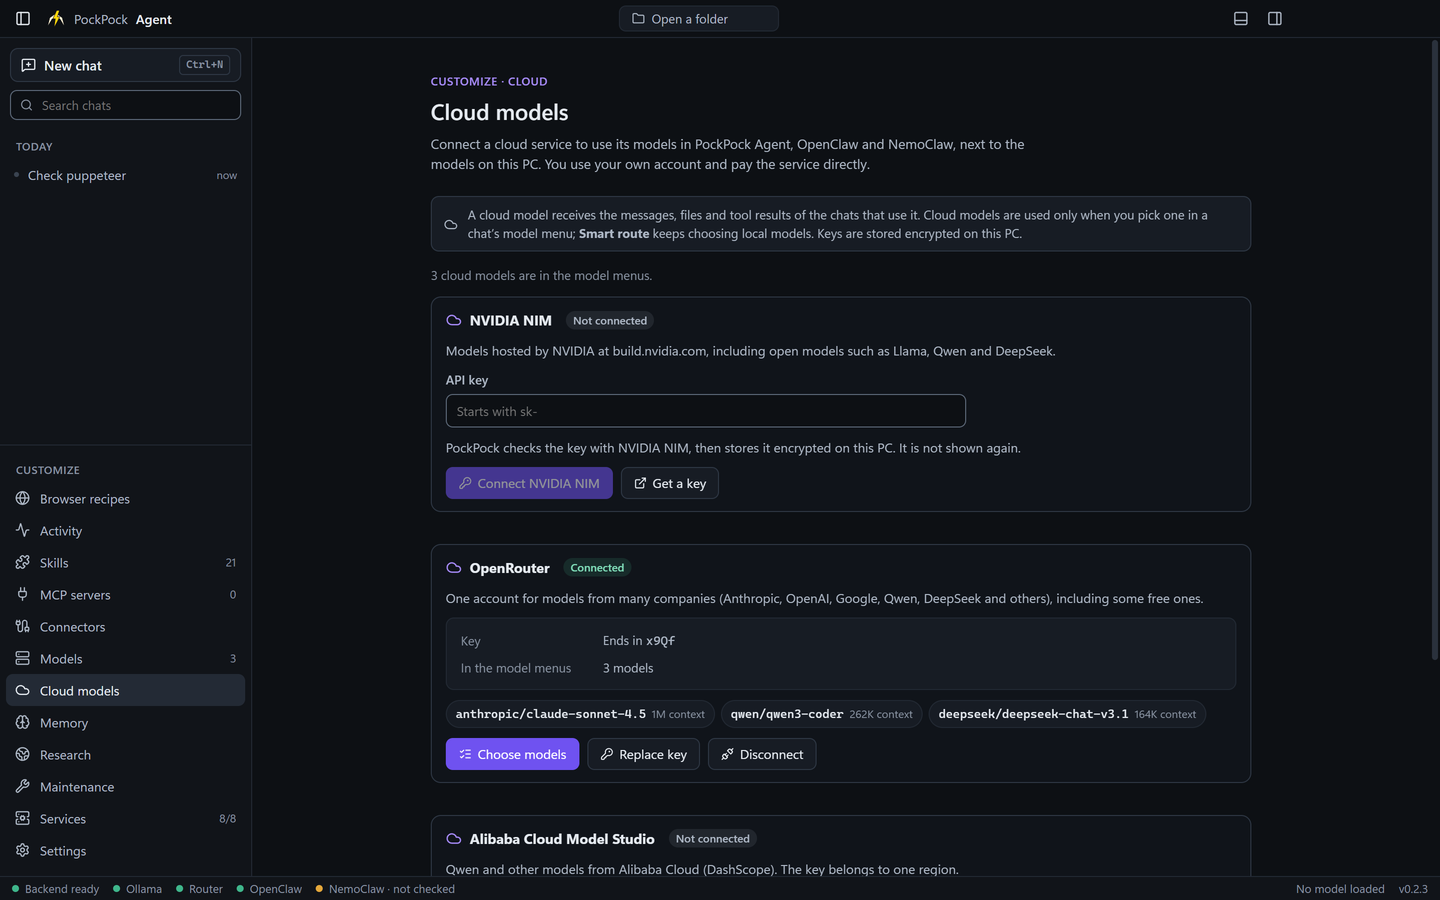
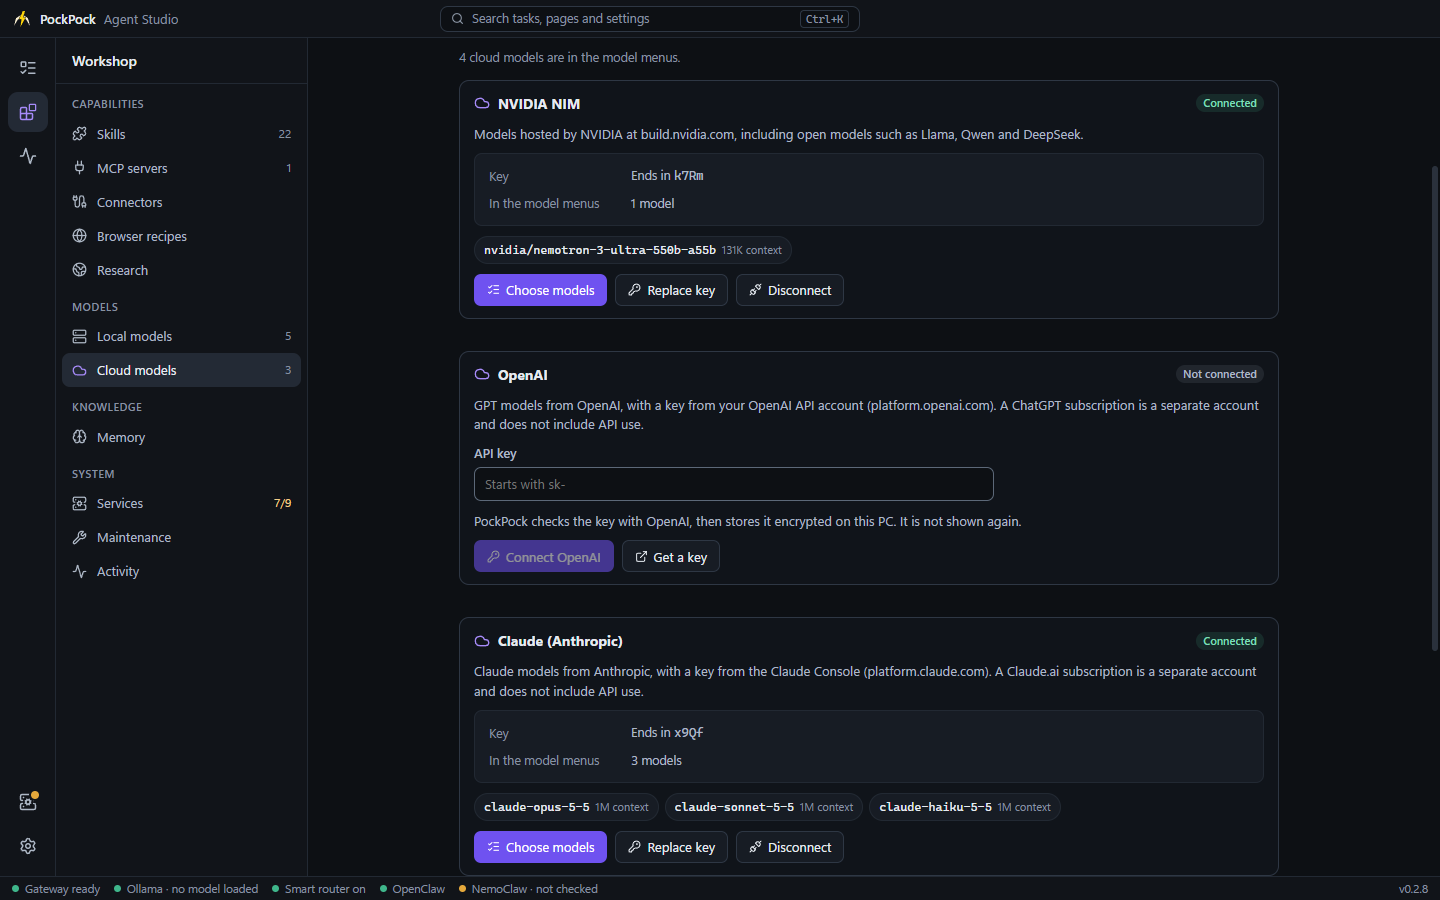
chore(release): 0.2.9 (#133)
Version bump 0.2.8 → 0.2.9 with release notes
(`.github/release-notes/v0.2.9.md`) for everything merged since v0.2.8:

- #130 fix(cloud): NVIDIA key check no longer fails on a model that
never answers.
- #131 feat(cloud): OpenAI and Claude replace OpenRouter; disconnect
cleans up.
- #132 feat(mcp): Local MCP runs MCP servers once for every agent (step
1).

Also new screenshots in `docs/images`:
- `cloud-models.png` and `model-menu-cloud.png`, retaken in the current
UI with sample data (NVIDIA NIM and Claude connected). They replace the
0.2.3-era images that showed OpenRouter.
- `mcp-servers.png`, a new image of the MCP servers page with two real
servers running in Local MCP.

The captions that said the images dated from 0.2.8 are updated.

🤖 Generated with [Claude Code](https://claude.com/claude-code)

diff --git a/.github/release-notes/v0.2.9.md b/.github/release-notes/v0.2.9.md
@@ -1,0 +1,52 @@
+PockPock Agent 0.2.9 adds OpenAI and Claude as cloud model services (replacing OpenRouter), cleans up everything that used a cloud service when you disconnect it, fixes connecting NVIDIA NIM with a valid key, and adds **Local MCP**: PockPock now runs the MCP servers you add, once, for the agents, and keeps their keys.
+
+## Download
+
+| Your computer | Download |
+|---|---|
+| Windows 10 or 11 (64-bit) | [PockPock-Agent-Setup.exe](https://github.com/PockPock9/PockPockAgent/releases/latest/download/PockPock-Agent-Setup.exe) |
+| Mac with Apple silicon (M1 or newer) | [PockPock-Agent-mac-arm64.dmg](https://github.com/PockPock9/PockPockAgent/releases/latest/download/PockPock-Agent-mac-arm64.dmg) |
+| Mac with an Intel processor | [PockPock-Agent-mac-x64.dmg](https://github.com/PockPock9/PockPockAgent/releases/latest/download/PockPock-Agent-mac-x64.dmg) |
+
+**Already using 0.2.8 on Windows?** PockPock updates itself: press **Restart to update** when it appears, or check in **Settings → Updates**. On a Mac, download and install it once, the same way as the first time. Your chats, settings and models are kept.
+
+**New to PockPock?** Open the downloaded file, then press **Set up PockPock**; setup installs everything else. Windows may show **"Windows protected your PC"** because PockPock is not code-signed yet: press **More info**, then **Run anyway**. On a Mac, see the [installation guide](https://github.com/PockPock9/PockPockAgent/wiki/Installation).
+
+## What's new since 0.2.8
+
+### OpenAI and Claude cloud models (OpenRouter removed)
+
+- **Workshop → Cloud models** now offers **NVIDIA NIM**, **OpenAI**, **Claude (Anthropic)** and **Alibaba Cloud Model Studio**. OpenRouter is no longer offered.
+- **OpenAI** and **Claude** need an API key from their developer platforms (platform.openai.com, platform.claude.com), billed per use. A ChatGPT or Claude.ai subscription is a separate account and does not include API use; the page says so.
+- On first connect, current models are switched on: Claude Opus 5.5, Sonnet 5.5 and Haiku 5.5; GPT-5.1, GPT-5 and GPT-5 mini (or the newest GPT models your account offers). Only chat models are listed.
+- PockPock adjusts each request to what the service accepts (for example, current Claude models refuse a custom temperature), for Chat, PockPock Agent, OpenClaw and NemoClaw alike.
+- A saved OpenRouter key is deleted from your PC when 0.2.9 starts, and model choices that pointed at an OpenRouter model go back to their defaults.
+
+### Disconnecting a cloud service cleans up
+
+When you disconnect a service, or untick one of its models, nothing is left pointing at a model that is gone:
+
+- the chat model, OpenClaw's model and the **Plan in steps** planner go back to their defaults;
+- OpenClaw's list of cloud models is rewritten;
+- NemoClaw's sandbox goes back to its local model if it was using one of them.
+
+### NVIDIA NIM connects with a valid key
+
+- A valid NVIDIA key could fail with "NVIDIA NIM could not be reached (it did not answer in time)", because the key check waited on a listed model that never answers. The key is now checked against several models at once, and the first clear answer decides: a real key connected in under a second.
+- The models switched on when you connect are ones that answered in tests.
+
+### Local MCP
+
+![The MCP servers page with two servers running in Local MCP](https://raw.githubusercontent.com/PockPock9/PockPockAgent/main/docs/images/mcp-servers.png)
+
+- MCP servers you add now run in **Local MCP**, a new service on the **Services** page. Each server starts the first time an agent uses it and is shared by the agents; one that crashes is started again. OpenClaw uses them today; PockPock Agent and NemoClaw are next.
+- Their keys are kept by PockPock (encrypted on Windows) instead of in OpenClaw's configuration.
+- **Workshop → MCP servers** shows each server's state (**Running · 25 tools**, **Starts when used**, **Error** with the reason), with **Log** and **Restart** buttons.
+- MCP servers you added in earlier versions move into Local MCP automatically when PockPock starts, with their keys and on/off switch. Servers added outside PockPock, and servers using the older SSE transport, stay with OpenClaw.
+
+## Good to know
+
+- Every pull request in this release passed the full check suite (backend tests and desktop typecheck and build on Ubuntu, Windows and macOS).
+- Not tested yet with real keys: connecting and chatting with OpenAI or Claude (made-up keys were refused by both real services, and requests were tested against stand-ins built from their documentation). Not tested yet: a full OpenClaw chat that calls a tool through Local MCP (OpenClaw's own MCP client was tested against it).
+- Help, screenshots and example prompts are in the [wiki](https://github.com/PockPock9/PockPockAgent/wiki).
+- Please [report problems](https://github.com/PockPock9/PockPockAgent/issues/new/choose).

diff --git a/docs/features/cloud-models.md b/docs/features/cloud-models.md
@@ -21,7 +21,7 @@ OpenAI and Claude need an **API** key from the developer platform, billed per us
 |---|---|
 | ![The Cloud models page with a provider connected](../images/cloud-models.png) | ![The model menu with local and cloud models](../images/model-menu-cloud.png) |
 
-*The screenshots show sample models and a sample key ending, not a real account. They were taken in 0.2.8, when OpenRouter was still one of the services; the page now lists NVIDIA NIM, OpenAI, Claude (Anthropic) and Alibaba.*
+*The screenshots show sample models and sample key endings (NVIDIA NIM and Claude connected), not a real account.*
 
 1. Open **Workshop → Cloud models**. Each service shows **Not connected**, **Connected**, or **Key needed again**.
 2. Paste the API key (for Alibaba, choose the region the key belongs to) and press **Connect**. **Get a key** opens the service's key page in the browser.

diff --git a/README.md b/README.md
@@ -67,7 +67,7 @@ PockPock is a local AI workspace for Windows and macOS. Its desktop app, **PockP
 |---|---|
 | ![The Cloud models page with a provider connected](docs/images/cloud-models.png) | ![The model menu with local and cloud models](docs/images/model-menu-cloud.png) |
 
-*The Cloud models screenshots show sample models and a sample key ending; no real account is connected in them. They date from 0.2.8, when OpenRouter was still offered.*
+*The Cloud models screenshots show sample models and sample key endings; no real account is connected in them.*
 
 More screenshots, a guide to every feature, and [example prompts for OpenClaw](https://github.com/PockPock9/PockPockAgent/wiki/OpenClaw-Examples) are in the [wiki](https://github.com/PockPock9/PockPockAgent/wiki).
 

diff --git a/docs/features/local-mcp.md b/docs/features/local-mcp.md
@@ -13,6 +13,8 @@ It is step 1 of the local MCP plan:
 
 ## What the user sees
 
+![The MCP servers page with two servers running in Local MCP](../images/mcp-servers.png)
+
 - **Services** lists **Local MCP** (group Backend, port 8776). It starts with the other backend services, and **Stop**, **Restart** and the log work as for any service. Stopping it stops every server it runs.
 - **Workshop → MCP servers** marks each server added in PockPock as *Runs on this PC in Local MCP* (or *Remote server, reached through Local MCP*) and shows its state:
 
